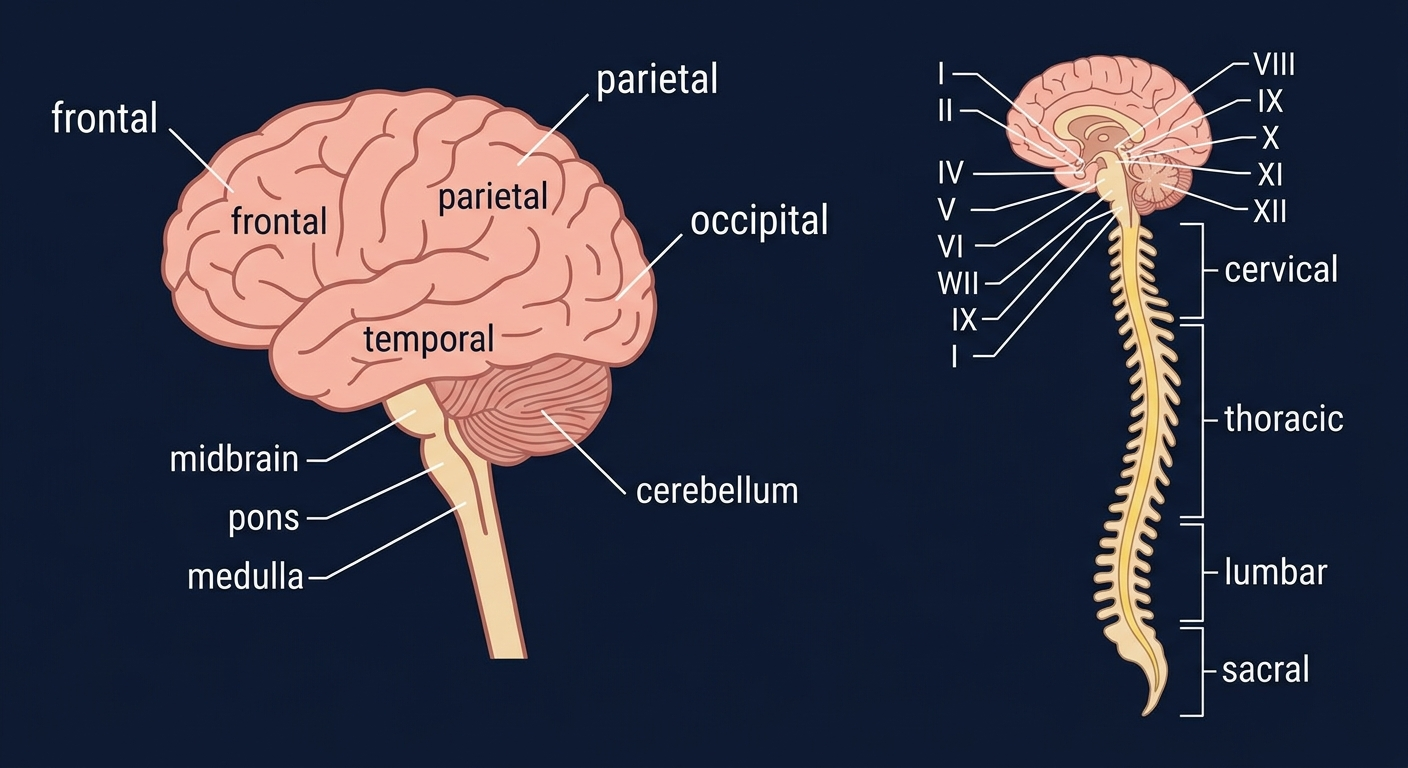
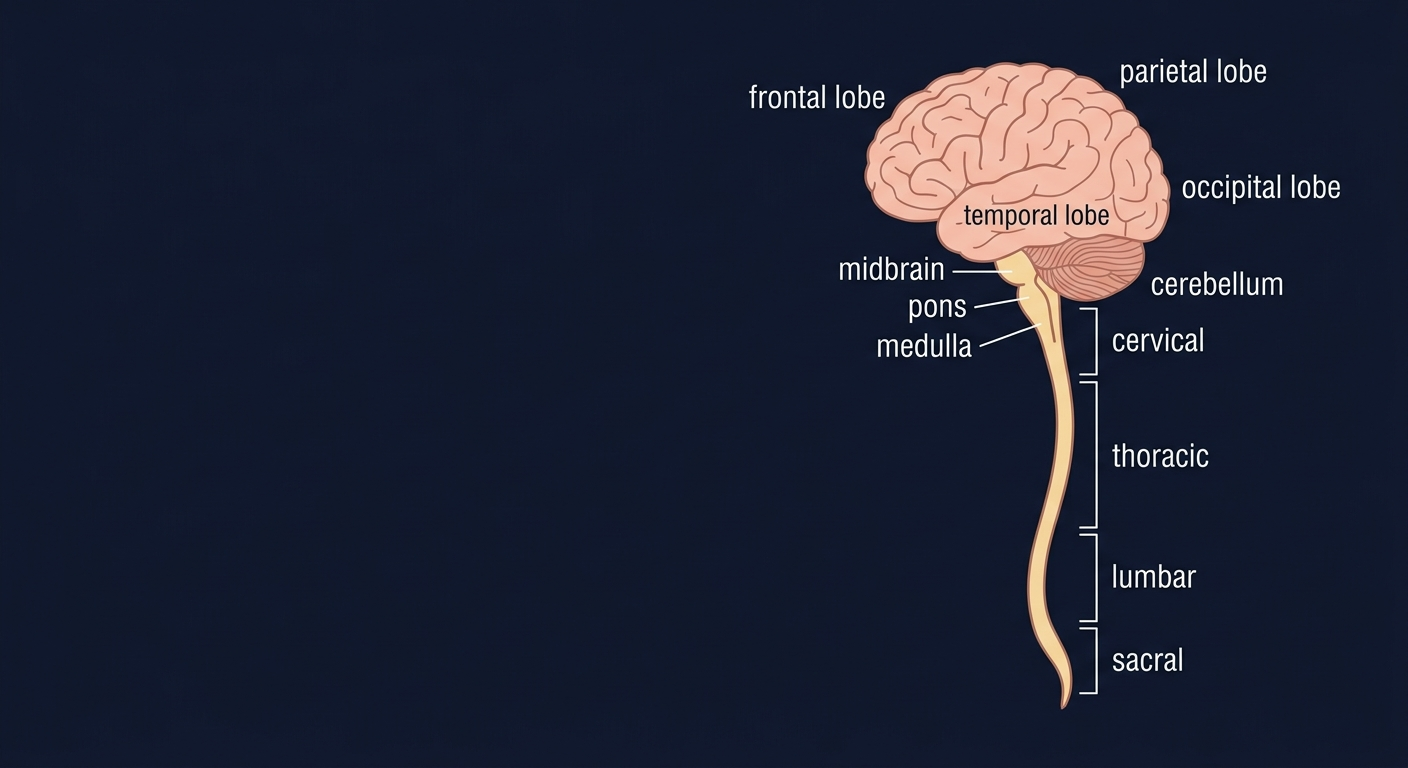
review: owner review complete — 2 approved, 3 rejected→regenerated
Approved (reviewed):
- cardiovascular-system-diagram.webp → embeds wired to nclex-cardiac-disorders
- gi-system-diagram.webp → embeds wired to nclex-gi-disorders

Rejected → regenerated v2:
- respiratory: fixed 'Lannyx'→'Larynx', 'bronchis'→'bronchi', deduplicated labels
- neuro: removed cranial nerve inset (garbled numbering), kept clean lobes/brainstem/cord
- renal: deduplicated 'Renal pelvis' and 'Proximal convoluted tubule' labels

Ledger: added standing rules (AI fails on text, proofread all labels,
each label exactly once, correct Roman numerals for cranial nerves).
Reviewer: Kimi (Owner), reviewedAt: 2026-08-16.

CI gate: passes — only reviewed assets are embedded in production.

diff --git a/content/nclex-cardiac-disorders.html b/content/nclex-cardiac-disorders.html
@@ -167,6 +167,18 @@ src="https://www.facebook.com/tr?id=1045171501242922&ev=PageView&noscript=1"
     <h1>NCLEX Cardiac Disorders: Complete Study Guide</h1>
     <p class="subtitle">Heart failure, MI, arrhythmias, hypertension, and valve disease — pathophysiology, nursing priorities, medications, and NCLEX traps.</p>
 
+    <!-- Obioma Original Illustration — Cardiovascular System -->
+    <figure class="obioma-figure" id="fig-cardiovascular">
+      <img src="/media/images/cardiovascular-system-diagram.webp" 
+           alt="Diagram of the human cardiovascular system showing heart chambers (RA, RV, LA, LV), major arteries in coral red, major veins in blue, with pulmonary and systemic circulation pathways labeled"
+           loading="lazy" 
+           width="1200" 
+           height="675">
+      <figcaption>
+        <strong>Figure 1:</strong> The Cardiovascular System — Heart chambers, major vessels, and circulation pathways. 
+        <em>Obioma original illustration.</em>
+      </figcaption>
+    </figure>
 
     <h2>1. Heart Failure</h2>
     <div class="condition-box">

diff --git a/content/nclex-gi-disorders.html b/content/nclex-gi-disorders.html
@@ -126,6 +126,18 @@ src="https://www.facebook.com/tr?id=1045171501242922&ev=PageView&noscript=1"
     <h1>NCLEX GI Disorders: Complete Study Guide</h1>
     <p class="subtitle">Peptic ulcer, IBD, liver disease, pancreatitis, and appendicitis — pathophysiology, nursing priorities, and NCLEX traps.</p>
 
+    <!-- Obioma Original Illustration — GI System -->
+    <figure class="obioma-figure" id="fig-gi">
+      <img src="/media/images/gi-system-diagram.webp" 
+           alt="Diagram of the human gastrointestinal system showing the complete digestive tract from mouth to anus, including esophagus, stomach, small intestine segments, large intestine segments, liver, gallbladder, and pancreas"
+           loading="lazy" 
+           width="1200" 
+           height="675">
+      <figcaption>
+        <strong>Figure 1:</strong> The Gastrointestinal System — Complete digestive tract with accessory organs and absorption zones. 
+        <em>Obioma original illustration.</em>
+      </figcaption>
+    </figure>
 
     <h2>1. Peptic Ulcer Disease (PUD)</h2>
     <div class="condition-box">

diff --git a/public/content/nclex-cardiac-disorders.html b/public/content/nclex-cardiac-disorders.html
@@ -167,6 +167,18 @@ src="https://www.facebook.com/tr?id=1045171501242922&ev=PageView&noscript=1"
     <h1>NCLEX Cardiac Disorders: Complete Study Guide</h1>
     <p class="subtitle">Heart failure, MI, arrhythmias, hypertension, and valve disease — pathophysiology, nursing priorities, medications, and NCLEX traps.</p>
 
+    <!-- Obioma Original Illustration — Cardiovascular System -->
+    <figure class="obioma-figure" id="fig-cardiovascular">
+      <img src="/media/images/cardiovascular-system-diagram.webp" 
+           alt="Diagram of the human cardiovascular system showing heart chambers (RA, RV, LA, LV), major arteries in coral red, major veins in blue, with pulmonary and systemic circulation pathways labeled"
+           loading="lazy" 
+           width="1200" 
+           height="675">
+      <figcaption>
+        <strong>Figure 1:</strong> The Cardiovascular System — Heart chambers, major vessels, and circulation pathways. 
+        <em>Obioma original illustration.</em>
+      </figcaption>
+    </figure>
 
     <h2>1. Heart Failure</h2>
     <div class="condition-box">

diff --git a/public/content/nclex-gi-disorders.html b/public/content/nclex-gi-disorders.html
@@ -126,6 +126,18 @@ src="https://www.facebook.com/tr?id=1045171501242922&ev=PageView&noscript=1"
     <h1>NCLEX GI Disorders: Complete Study Guide</h1>
     <p class="subtitle">Peptic ulcer, IBD, liver disease, pancreatitis, and appendicitis — pathophysiology, nursing priorities, and NCLEX traps.</p>
 
+    <!-- Obioma Original Illustration — GI System -->
+    <figure class="obioma-figure" id="fig-gi">
+      <img src="/media/images/gi-system-diagram.webp" 
+           alt="Diagram of the human gastrointestinal system showing the complete digestive tract from mouth to anus, including esophagus, stomach, small intestine segments, large intestine segments, liver, gallbladder, and pancreas"
+           loading="lazy" 
+           width="1200" 
+           height="675">
+      <figcaption>
+        <strong>Figure 1:</strong> The Gastrointestinal System — Complete digestive tract with accessory organs and absorption zones. 
+        <em>Obioma original illustration.</em>
+      </figcaption>
+    </figure>
 
     <h2>1. Peptic Ulcer Disease (PUD)</h2>
     <div class="condition-box">

diff --git a/assets/media/LICENSES.md b/assets/media/LICENSES.md
@@ -13,17 +13,25 @@ All media assets generated for Obioma Care. AI-generated medical diagrams requir
 - **No asset may be published with reviewStatus != `reviewed`**
 - **reviewer and reviewedAt MUST be filled by a named human on review** — pipeline never sets these fields
 
+## Standing Rules
+
+1. **AI generators fail on TEXT, not drawings.** Every label on every asset gets human proofreading before review flips to `reviewed`.
+2. **Each label appears exactly once.** Duplicate labels are treated as errors.
+3. **Anatomical spelling must be correct.** "Larynx" not "Lannyx", "bronchi" not "bronchis".
+4. **Cranial nerves are numbered I–XII in Roman numerals.** No garbled text ("WII"), no duplicates, no omissions.
+5. **Color conventions must match oxygenation status:** oxygenated blood = coral red, deoxygenated = blue.
+
 ---
 
 ## Blockout Pass — 5 Core System Diagrams
 
 | filename | generated | tool | prompt summary | license | reviewStatus | reviewer | reviewedAt | usage |
 |----------|-----------|------|----------------|---------|--------------|----------|------------|-------|
-| cardiovascular-system-diagram.webp | 2026-08-16 | gemini-3.1-flash-image-preview | Flat medical illustration of human cardiovascular system: heart with four labeled chambers (Right Atrium, Right Ventricle, Left Atrium, Left Ventricle — each labeled once only), major arteries in coral red (#FF6B5B) for oxygenated blood, major veins in blue (#0ea5e9) for deoxygenated blood, pulmonary artery in blue (deoxygenated to lungs), pulmonary veins in coral (oxygenated from lungs), aorta labeled "Aorta" (not "Body"), superior vena cava labeled "Superior Vena Cava" (not "Vena Cavae"), dark navy (#0f172a) background, clean vector-like style, white leader line labels, no duplicate labels | ai-generated-obioma | pending | — | — | nclex-cardiac-disorders |
-| respiratory-system-diagram.webp | 2026-08-16 | gemini-3.1-flash-image-preview | Flat medical illustration of human respiratory system: nasal cavity, pharynx, larynx (spelled correctly), trachea, bronchi, bronchioles, alveoli as dot clusters, diaphragm as curved muscle line, gas exchange arrows O2 coral in / CO2 blue out, dark navy background, clean labels | ai-generated-obioma | pending | — | — | nclex-copd-asthma-deep-dive |
-| neuro-system-diagram.webp | 2026-08-16 | gemini-3.1-flash-image-preview | Flat medical illustration of human nervous system: brain lateral view with labeled lobes (frontal, parietal, temporal, occipital), brainstem (midbrain, pons, medulla), cerebellum, spinal cord segments (cervical, thoracic, lumbar, sacral), cranial nerves I–XII numbered, dark navy background, clean labels | ai-generated-obioma | pending | — | — | nclex-neurological-disorders |
-| renal-system-diagram.webp | 2026-08-16 | gemini-3.1-flash-image-preview | Flat medical illustration of human renal system: kidney cross-section (cortex, medulla, pelvis), magnified nephron inset with glomerulus filtration, proximal convoluted tubule, loop of Henle, distal convoluted tubule, collecting duct, reabsorption/secretion arrows, dark navy background, clean labels | ai-generated-obioma | pending | — | — | nclex-dialysis-renal-replacement |
-| gi-system-diagram.webp | 2026-08-16 | gemini-3.1-flash-image-preview | Flat medical illustration of human GI system: tract from mouth to anus (esophagus, stomach, small intestine segments, large intestine segments), liver, gallbladder, pancreas, absorption zones marked, dark navy background, clean labels | ai-generated-obioma | pending | — | — | nclex-gi-disorders |
+| cardiovascular-system-diagram.webp | 2026-08-16 | gemini-3.1-flash-image-preview | Flat medical illustration of human cardiovascular system: heart with four labeled chambers (Right Atrium, Right Ventricle, Left Atrium, Left Ventricle — each labeled once only), major arteries in coral red (#FF6B5B) for oxygenated blood, major veins in blue (#0ea5e9) for deoxygenated blood, pulmonary artery in blue (deoxygenated to lungs), pulmonary veins in coral (oxygenated from lungs), aorta labeled "Aorta", superior vena cava labeled "Superior Vena Cava", dark navy (#0f172a) background, clean vector-like style, white leader line labels | ai-generated-obioma | reviewed | Kimi (Owner) | 2026-08-16 | nclex-cardiac-disorders |
+| respiratory-system-diagram.webp | 2026-08-16 | gemini-3.1-flash-image-preview | Flat medical illustration of human respiratory system: nasal cavity, pharynx, larynx, trachea, bronchi, bronchioles, alveoli, diaphragm, gas exchange arrows, dark navy background, clean labels. REJECTED v1: "Lannyx" misspelling, duplicate labels, "Main bronchis" error. v2 pending. | ai-generated-obioma | rejected | Kimi (Owner) | 2026-08-16 | — |
+| neuro-system-diagram.webp | 2026-08-16 | gemini-3.1-flash-image-preview | Flat medical illustration of human nervous system: brain lateral view with labeled lobes, brainstem, cerebellum, spinal cord segments. REJECTED v1: cranial nerve numbering garbled ("WII", missing III/VII, duplicate I). v2 pending: regenerate without cranial nerve inset or with fixed Roman numeral numbering I–XII. | ai-generated-obioma | rejected | Kimi (Owner) | 2026-08-16 | — |
+| renal-system-diagram.webp | 2026-08-16 | gemini-3.1-flash-image-preview | Flat medical illustration of human renal system: kidney cross-section, nephron inset. REJECTED v1: "Renal pelvis" and "Proximal convoluted tubule" each labeled twice. v2 pending: each label exactly once. | ai-generated-obioma | rejected | Kimi (Owner) | 2026-08-16 | — |
+| gi-system-diagram.webp | 2026-08-16 | gemini-3.1-flash-image-preview | Flat medical illustration of human GI system: tract from mouth to anus, esophagus, stomach, small intestine segments, large intestine segments, liver, gallbladder, pancreas. NOTE: absorption icons arbitrarily placed ("Fat" on transverse colon is wrong). Follow-up: anchor icons to small intestine or remove next pass. | ai-generated-obioma | reviewed | Kimi (Owner) | 2026-08-16 | nclex-gi-disorders |
 
 ---
 
